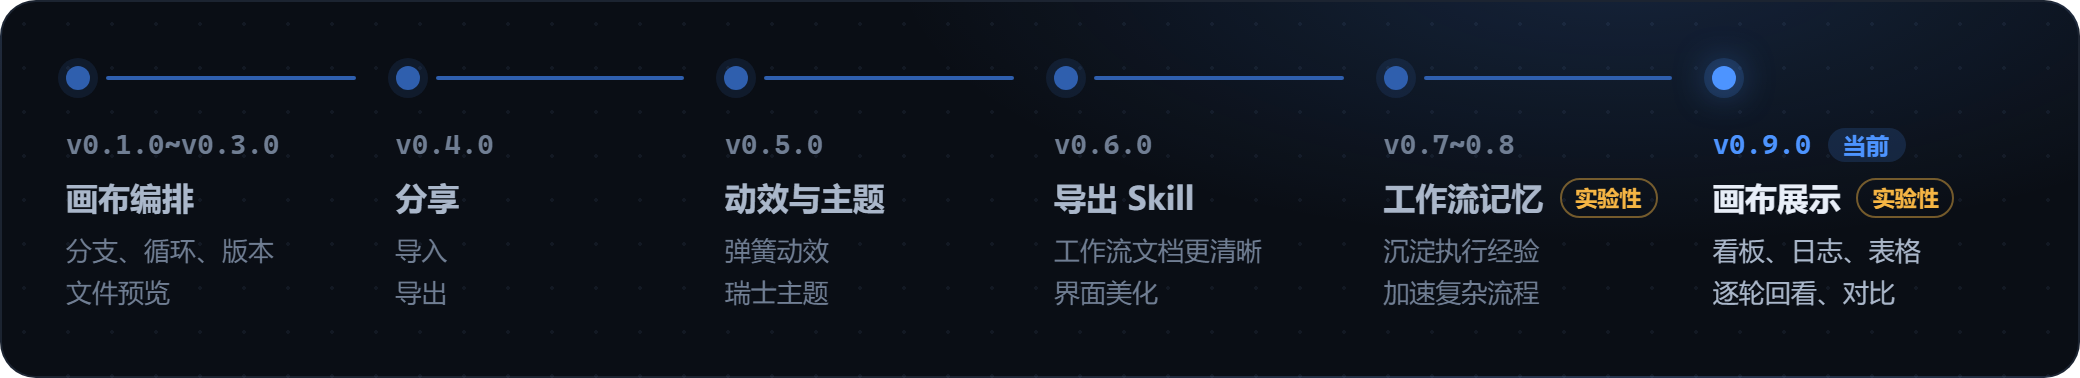
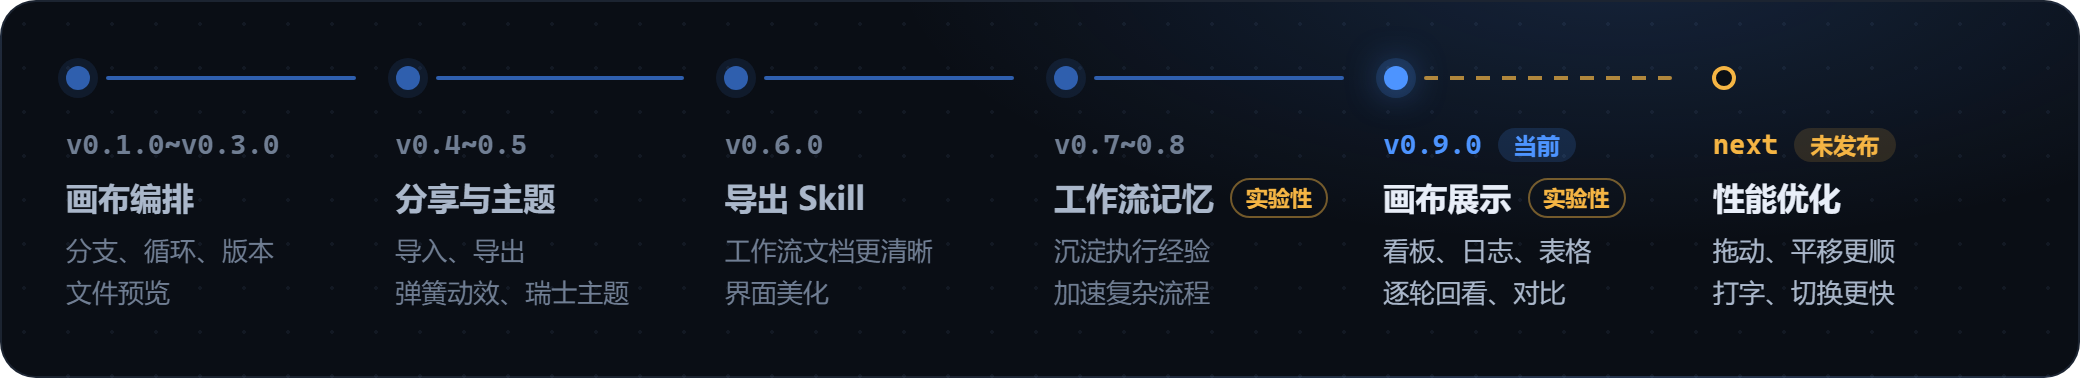
docs(changelog): Unreleased 写上 0.9.0 以来的改动；版本线加「未发布 · 性能优化」一站，v0.4、v0.5 合成「分享与主题」保持 6 站

diff --git a/CHANGELOG.md b/CHANGELOG.md
@@ -7,6 +7,29 @@
 
 ## [Unreleased]
 
+这一版让几百张卡片的大工作流也能流畅编辑，并修了几处连线对不准连接点的问题。
+
+**升级不需要做任何事。**
+
+### Added
+
+- 工作流视图出错时显示「工作流视图出错了」，点「重试」原地重新打开，不用刷新页面。
+
+### Changed
+
+- 优化大工作流的流畅度：几百张卡片时拖动卡片、平移、缩放、切换工作流，以及在模板和实例里打字都不再卡顿。
+- 优化展示卡的加载：画布挪开再挪回来时直接显示看过的内容，不再重新读取。
+- 优化工作流较多时打开切换列表和工作流中心的速度。
+- 柔边镂空、纯镂空外观的展示卡，左右连接点改为落在虚线框上。
+
+### Fixed
+
+- 修复卡片刚出现时连接点位置算偏，连线扎进卡片、箭头指不到连接点的问题。
+- 修复展示卡左边的连接点被内容盖住一半、只能点中外侧半边的问题。
+- 修复切换实例或网络较慢时，旧的读取结果盖掉新内容的问题。
+- 修复开启「减少动态效果」后，步骤卡上的执行位置标记仍有入场动画的问题。
+- 修复资源小图标大小、「只给填写的人看」一栏的间距偶尔显示不对的问题。
+
 ## [0.9.0] - 2026-10-31
 
 这一版新增画布展示（实验性）：资源里的看板、图片、文档、日志、表格和文件夹可以直接显示在画布上，循环每一轮的产出都能回看。
